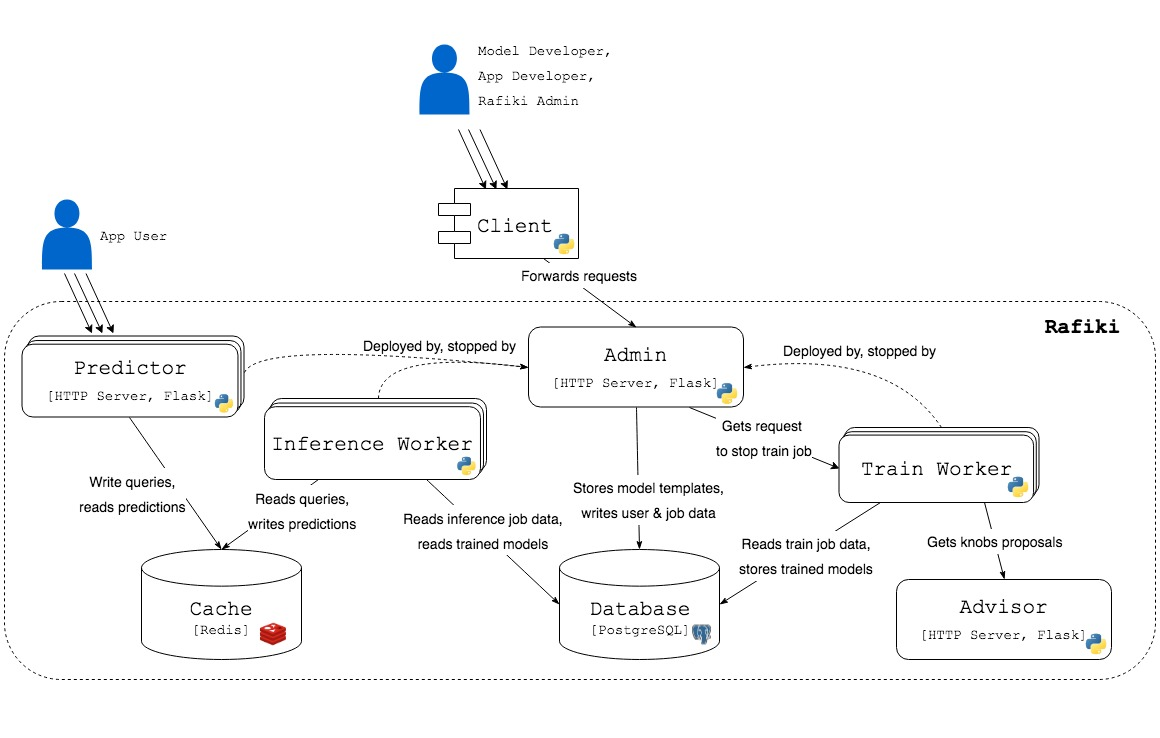
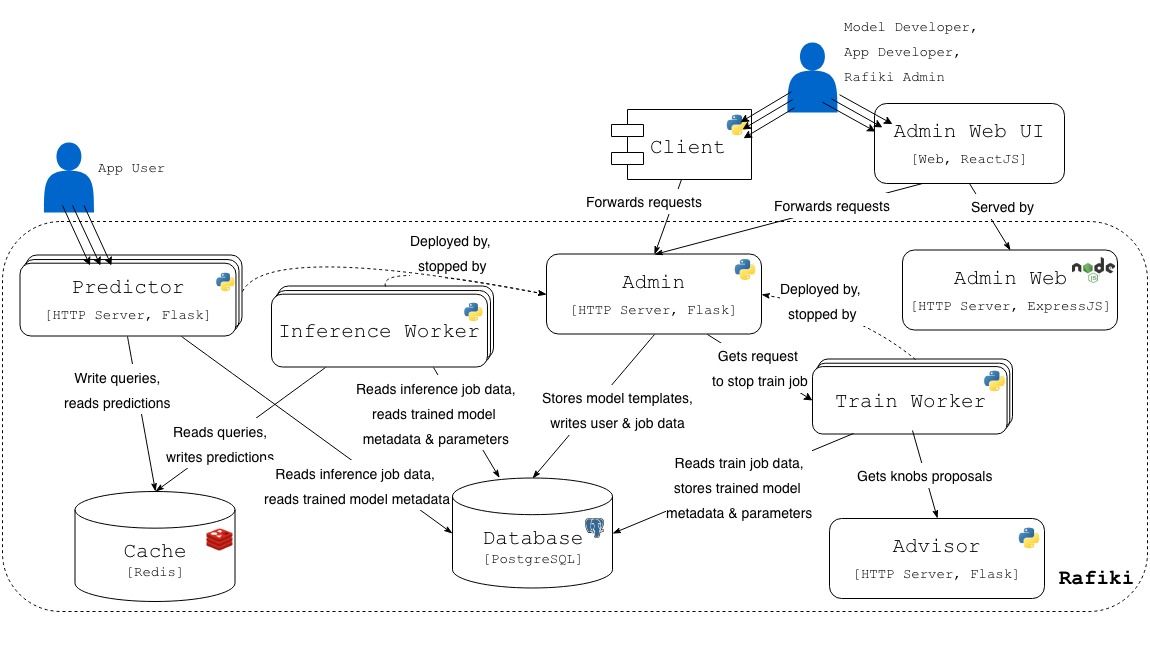
Update docs about visualization of train job's trials

diff --git a/docs/user/quickstart.rst b/docs/user/quickstart.rst
@@ -13,14 +13,13 @@ Quick Start
 
     If you're an *Application Developer* just looking to train and deploy models on a running instance of Rafiki, refer to :ref:`quickstart-app-developers`.
 
-
 .. note::
 
     If you're an *Application User* just looking to make predictions to deployed models on a running instance of Rafiki, refer to :ref:`quickstart-app-users`.
 
 
 This guide assumes you have deployed your an empty instance of Rafiki and you want to do a *full* train-inference flow, 
-including preparation of dataset and adding of models to Rafiki. 
+including preparation of dataset and adding of models to Rafiki.
 
 This quickstart submits the `Fashion MNIST dataset <https://github.com/zalandoresearch/fashion-mnist>`_ for training and inference. 
 

diff --git a/docs/dev/architecture.rst b/docs/dev/architecture.rst
@@ -36,6 +36,7 @@ Static Components of Rafiki
 These components make up Rafiki's static stack.
 
 - *Admin* is a HTTP server that handles requests from users, and accordingly updates Rafiki's database or deploys components (e.g workers, predictors) based on these requests
+- *Admin Web* is a HTTP server that serves a Web UI for Admin
 - *Client* is a client-side Python SDK for sending requests to Admin
 - *Advisor* is a HTTP server that generates proposals of knobs during training
 - *Database* is Rafiki's main store for user, train job, inference job, model templates, and trained model data, including model parameters

diff --git a/docs/user/quickstart-app-developers.rst b/docs/user/quickstart-app-developers.rst
@@ -5,7 +5,8 @@ Quick Start (Application Developers)
 
 .. contents:: Table of Contents
 
-We assume that you have access to a running instance of *Rafiki Admin* at ``<admin_host>:<admin_port>``. 
+We assume that you have access to a running instance of *Rafiki Admin* at ``<rafiki_host>:<admin_port>``
+and *Rafiki Admin Web* at ``<rafiki_host>:<admin_web_port>``.
 
 Installing the Client
 --------------------------------------------------------------------

diff --git a/docs/user/quickstart-model-developers.rst b/docs/user/quickstart-model-developers.rst
@@ -5,7 +5,8 @@ Quick Start (Model Developers)
 
 .. contents:: Table of Contents
 
-We assume that you have access to a running instance of *Rafiki Admin* at ``<admin_host>:<admin_port>``. 
+We assume that you have access to a running instance of *Rafiki Admin* at ``<rafiki_host>:<admin_port>``
+and *Rafiki Admin Web* at ``<rafiki_host>:<admin_web_port>``.
 
 Installing the Client
 --------------------------------------------------------------------

diff --git a/docs/user/quickstart-admins.rst b/docs/user/quickstart-admins.rst
@@ -3,7 +3,8 @@ Quick Start (Rafiki Admins)
 
 .. contents:: Table of Contents
 
-We assume that you have access to a running instance of *Rafiki Admin* at ``<admin_host>:<admin_port>``. 
+We assume that you have access to a running instance of *Rafiki Admin* at ``<rafiki_host>:<admin_port>``
+and *Rafiki Admin Web* at ``<rafiki_host>:<admin_web_port>``.
 
 Installation
 --------------------------------------------------------------------

diff --git a/docs/dev/setup-development.rst b/docs/dev/setup-development.rst
@@ -23,7 +23,9 @@ We assume development or deployment in a MacOS or Linux environment.
 
     sudo bash scripts/start.sh
 
-4. To destroy Rafiki's complete stack:
+*Rafiki Admin* and *Rafiki Admin Web* will be available at ``localhost:8000`` and ``localhost:8080`` respectively.
+
+To destroy Rafiki's complete stack:
 
 .. code-block:: shell
 

diff --git a/docs/user/client-create-train-job.include.rst b/docs/user/client-create-train-job.include.rst
@@ -7,6 +7,8 @@ and upload it to a publicly accessible URL.
 
 .. seealso:: :ref:`tasks`
 
+You can monitor your train jobs on Rafiki's Admin Web's GUI, including plots of metrics for models that have been trained on your dataset.
+
 Example:
 
     .. code-block:: python
